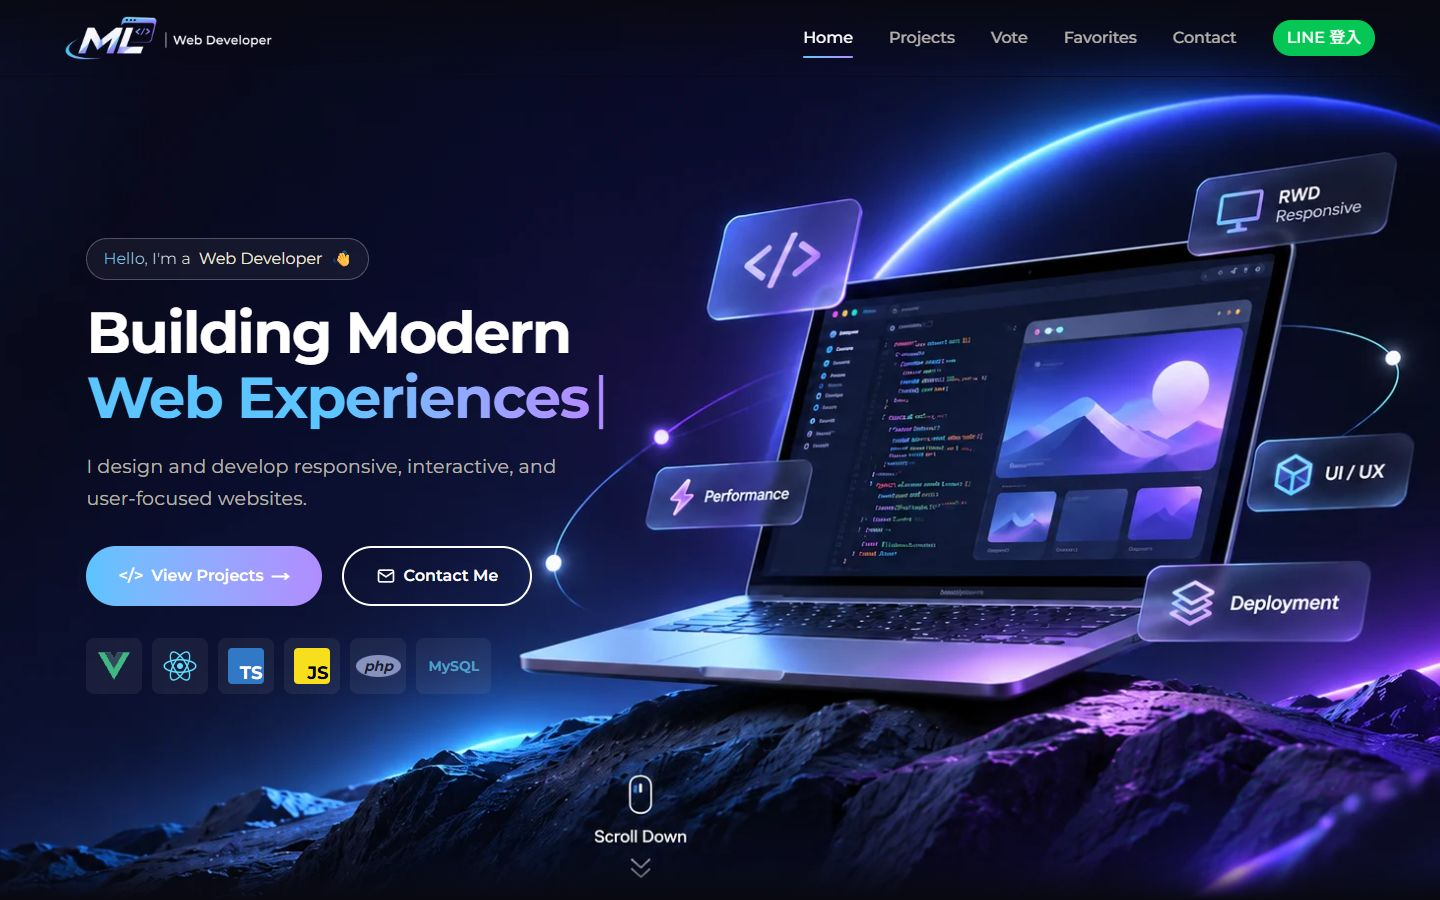
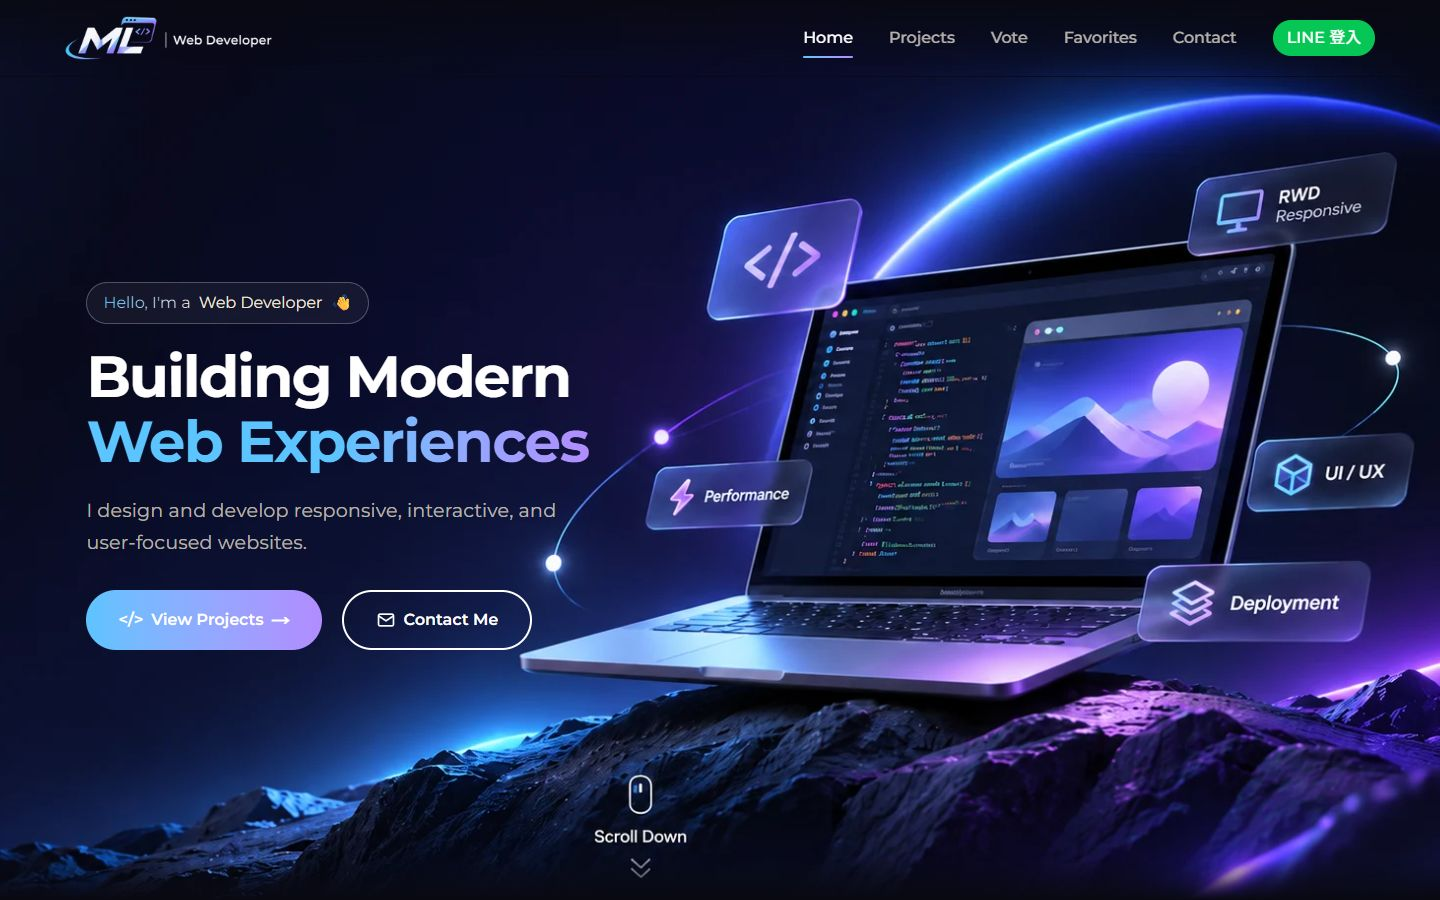
fix: 修正 Supabase 網址帶路徑時的連線錯誤
- 建立 client 時只取網址的 origin，避免 /rest/v1 重複
- 移除開頭畫面的技術圖示
- README 改用正式網址並更新截圖

Changed region(s): [[0.0625, 0.28, 0.4375, 0.7778]]

diff --git a/src/components/Banner.tsx b/src/components/Banner.tsx
@@ -2,9 +2,8 @@
 
 import gsap from "gsap";
 import { useEffect, useRef } from "react";
-import { TechIcons } from "./TechIcons";
 
-/** 開頭畫面：背景是 banner 圖，文字、按鈕、技術圖示都是真實 HTML */
+/** 開頭畫面：背景是 banner 圖，文字與按鈕都是真實 HTML */
 export function Banner() {
   const rootRef = useRef<HTMLElement>(null);
   const artRef = useRef<HTMLDivElement>(null);
@@ -114,9 +113,6 @@ export function Banner() {
             </svg>
             Contact Me
           </a>
-        </div>
-        <div data-banner className="mt-5 sm:mt-8">
-          <TechIcons />
         </div>
         </div>
       </div>

diff --git a/src/lib/server/store.ts b/src/lib/server/store.ts
@@ -163,7 +163,8 @@ export function getStore(): Store | null {
   if (!globalStore.__portfolioStore) {
     globalStore.__portfolioStore =
       mode === "live"
-        ? supabaseStore(createClient(env.supabaseUrl, env.supabaseKey, { auth: { persistSession: false } }))
+        ? // 只取到網域：Supabase 後台顯示的網址常帶 /rest/v1/，client 會自己再補一次而變成無效路徑
+          supabaseStore(createClient(new URL(env.supabaseUrl).origin, env.supabaseKey, { auth: { persistSession: false } }))
         : memoryStore();
   }
   return globalStore.__portfolioStore;

diff --git a/README.md b/README.md
@@ -16,6 +16,10 @@
   <img src="https://img.shields.io/badge/LINE_LIFF-06C755?logo=line&logoColor=white" alt="LINE LIFF">
 </p>
 
+<p align="center">
+  <a href="https://ml-chen-portfolio.vercel.app/"><strong>線上展示 →</strong></a>
+</p>
+
 ![開頭畫面](docs/screenshots/banner.jpg)
 
 ## 這個作品想展示什麼
